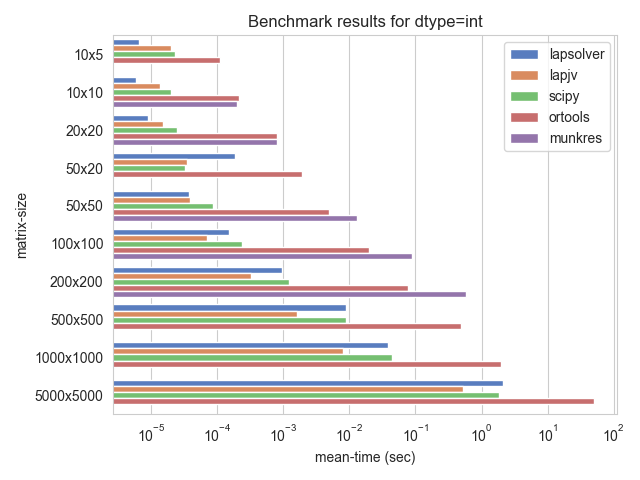
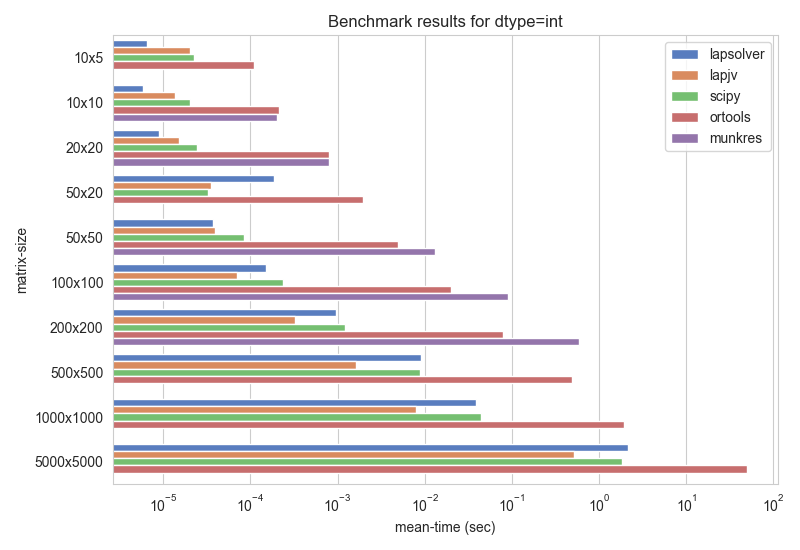
Modify figure size to match past figures

Changed region(s): [[0.0, 0.0312, 1.0, 0.9688], [0.4375, 0.3438, 0.4688, 0.375]]

diff --git a/lapsolver/benchmarks/plot_results.py b/lapsolver/benchmarks/plot_results.py
@@ -33,7 +33,7 @@ def draw_plots(df):
     sns.set_style("whitegrid")
     for s, g in df.groupby('scalar'):
         print(g)
-        plt.figure()
+        plt.figure(figsize=(8, 5.5))
         title='Benchmark results for dtype={}'.format(s)
         ax = sns.barplot(x='mean-time', y='matrix-size', hue='solver', data=g, errwidth=0, palette="muted")
         ax.set_xscale("log")
